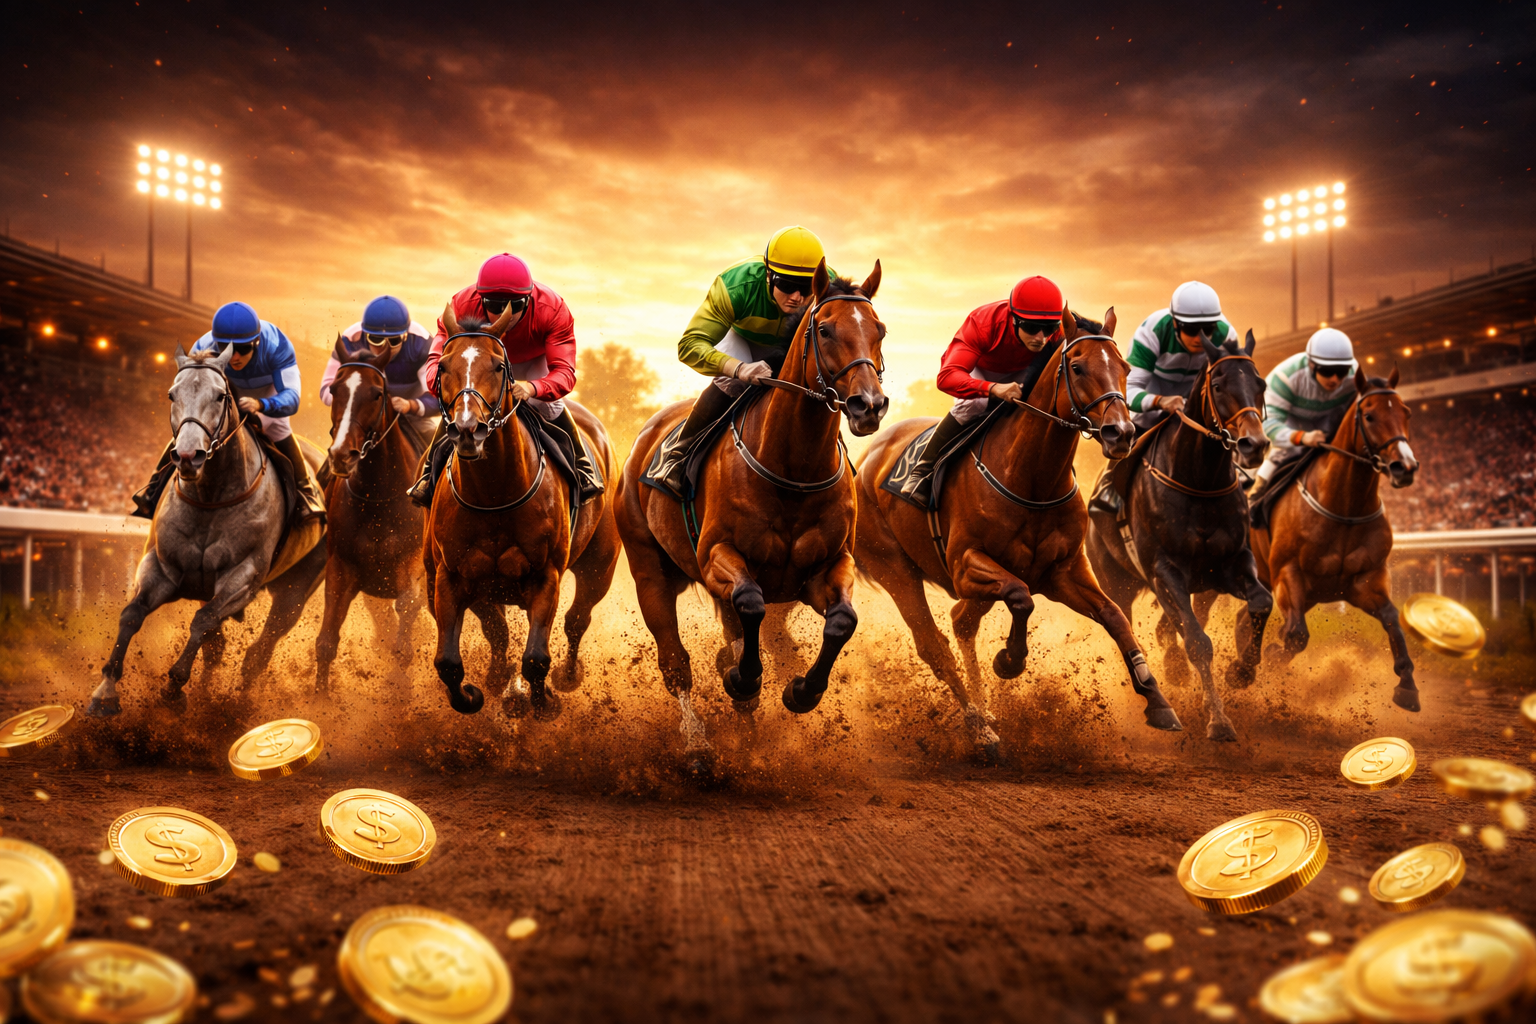
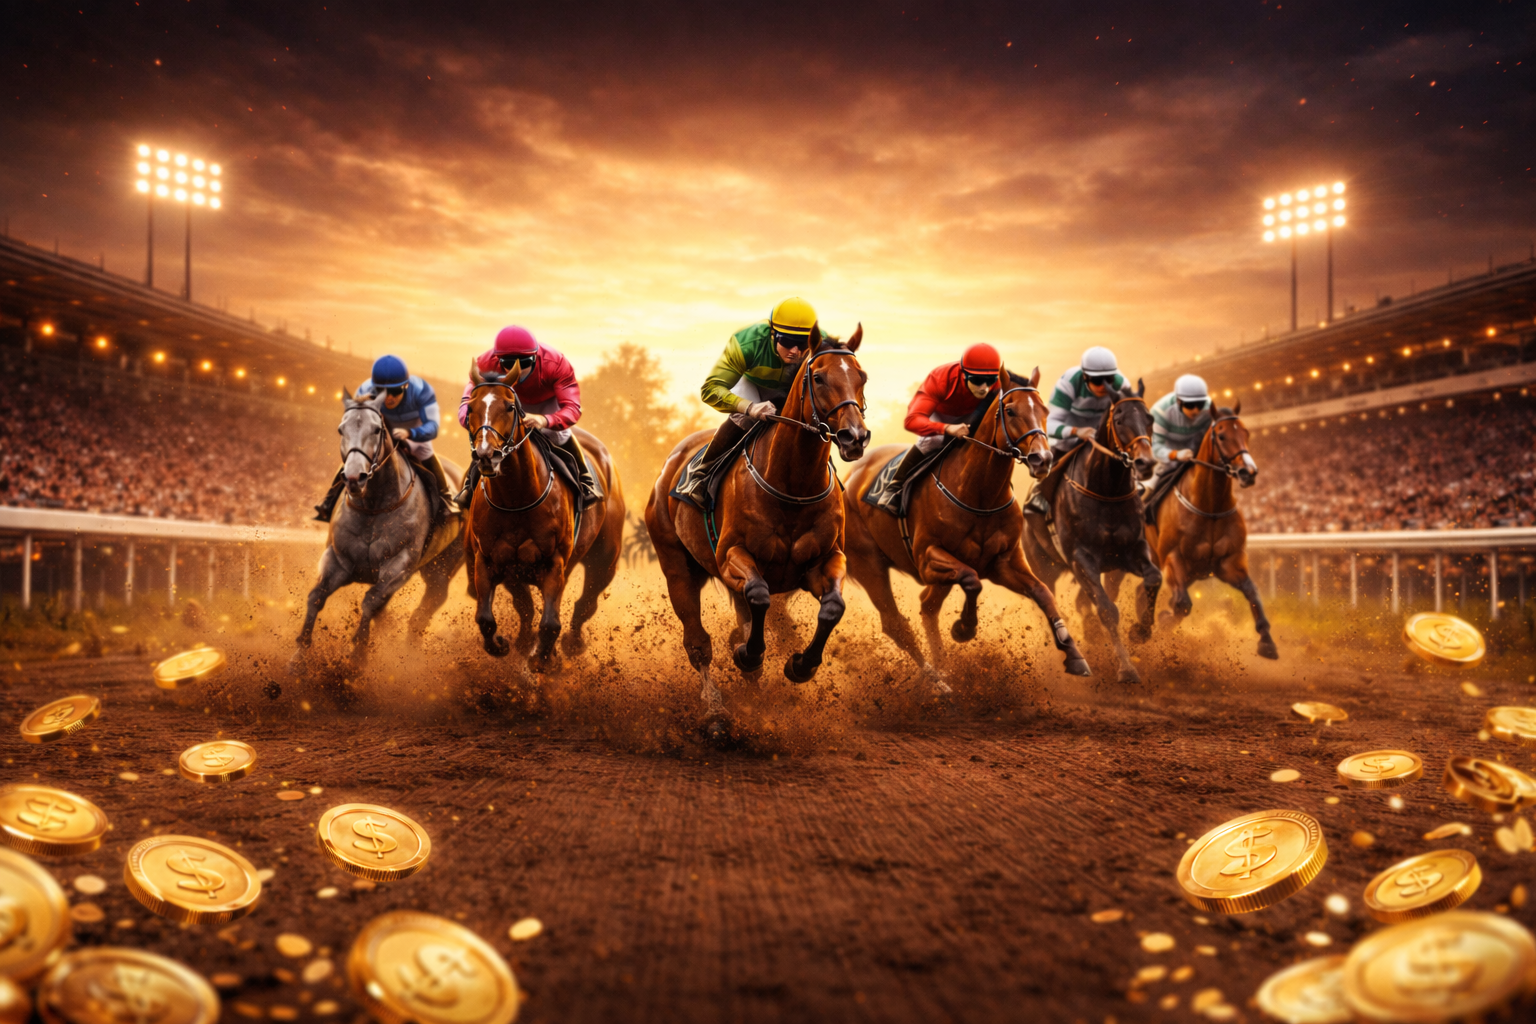
actualizacion

diff --git a/index.html b/index.html
@@ -63,8 +63,8 @@ body { margin: 0; background: var(--dark); color: #fff; font-family: 'Montserrat
 .btn-auth:hover { background: rgba(212, 175, 55, 0.1); box-shadow: 0 0 15px rgba(212,175,55,0.3); }
 
 /* ===== HERO ===== */
-/* CORRECCIÓN: background-position a center 10% para priorizar la visualización de los jinetes y caballos */
-.hero { height: 260px; background: linear-gradient(rgba(0,0,0,.5), rgba(0,0,0,.8)), url("head.webp"); background-size: cover; background-position: center 10%; display: flex; justify-content: center; align-items: center; border-bottom: 2px solid var(--oro); }
+/* CORRECCIÓN: background-position en center (o center 50%) para equilibrar cielo y caballos */
+.hero { height: 260px; background: linear-gradient(rgba(0,0,0,.5), rgba(0,0,0,.8)), url("assets/head.webp"); background-size: cover; background-position: center; display: flex; justify-content: center; align-items: center; border-bottom: 2px solid var(--oro); }
 .hero-content { text-align: center; padding: 0 15px; }
 .hero-live { display: inline-block; background: var(--rojo); padding: 5px 18px; border-radius: 30px; font-size: .75rem; letter-spacing: 3px; font-weight: 800; margin-bottom: 12px; animation: vivo 1.6s infinite; }
 @keyframes vivo { 0% { box-shadow: 0 0 6px rgba(192,57,43,.4); } 50% { box-shadow: 0 0 16px rgba(192,57,43,.9); } 100% { box-shadow: 0 0 6px rgba(192,57,43,.4); } }
@@ -307,8 +307,8 @@ footer span { color: var(--oro); }
     .user-panel { width: 100%; justify-content: space-between; } 
     .header-box { padding: 0 10px; font-size: 0.75rem; flex: 1; justify-content: center;}
     
-    /* CORRECCIÓN: Ajuste de la altura de la cabecera y el encuadre para móvil */
-    .hero { height: 180px; background-position: center 10%; } 
+    /* CORRECCIÓN: Ajuste del encuadre para móvil a center */
+    .hero { height: 180px; background-position: center; } 
     
     .hero h1 { font-size: 1.6rem; letter-spacing: 4px; }
     .tab-btn { padding: 12px 10px; font-size: 0.7rem; min-width: 140px; }
@@ -339,7 +339,7 @@ footer span { color: var(--oro); }
 <div class="header-wrapper">
     <div class="header">
         <div class="logo-container">
[2 lines of base64/hex data omitted]
             <span style="font-family: 'Cinzel', serif; letter-spacing: 2px; font-size: 1.4rem; font-weight: 900; color: var(--oro); text-transform: uppercase; margin-left: 5px;">HORSEBIT</span>
         </div>
         
@@ -456,14 +456,14 @@ footer span { color: var(--oro); }
 </div>
 
 <script>
-// --- 1. BASE DE DATOS OFICIAL (USANDO .webp SEGÚN TU CARPETA) ---
+// --- 1. BASE DE DATOS OFICIAL ---
 const dbOriginal = [
-    { id: 0, nombre: "TRUENO", cuota: 2.0, vel: 85, res: 60, exp: "5 años", img: "trueno.webp", ganadas: 14, derrotas: 6 },
-    { id: 1, nombre: "RELÁMPAGO", cuota: 3.5, vel: 92, res: 40, exp: "3 años", img: "relampago.webp", ganadas: 8, derrotas: 12 },
-    { id: 2, nombre: "PEGASO", cuota: 2.5, vel: 78, res: 85, exp: "6 años", img: "pegaso.webp", ganadas: 22, derrotas: 8 },
-    { id: 3, nombre: "TORNADO", cuota: 4.0, vel: 88, res: 50, exp: "4 años", img: "tornado.webp", ganadas: 5, derrotas: 18 },
-    { id: 4, nombre: "CENTELLA", cuota: 5.0, vel: 95, res: 30, exp: "2 años", img: "centella.webp", ganadas: 3, derrotas: 20 },
-    { id: 5, nombre: "COMETA", cuota: 3.0, vel: 80, res: 75, exp: "4 años", img: "cometa.webp", ganadas: 11, derrotas: 9 }
+    { id: 0, nombre: "TRUENO", cuota: 2.0, vel: 85, res: 60, exp: "5 años", img: "assets/trueno.webp", ganadas: 14, derrotas: 6 },
+    { id: 1, nombre: "RELÁMPAGO", cuota: 3.5, vel: 92, res: 40, exp: "3 años", img: "assets/relampago.webp", ganadas: 8, derrotas: 12 },
+    { id: 2, nombre: "PEGASO", cuota: 2.5, vel: 78, res: 85, exp: "6 años", img: "assets/pegaso.webp", ganadas: 22, derrotas: 8 },
+    { id: 3, nombre: "TORNADO", cuota: 4.0, vel: 88, res: 50, exp: "4 años", img: "assets/tornado.webp", ganadas: 5, derrotas: 18 },
+    { id: 4, nombre: "CENTELLA", cuota: 5.0, vel: 95, res: 30, exp: "2 años", img: "assets/centella.webp", ganadas: 3, derrotas: 20 },
+    { id: 5, nombre: "COMETA", cuota: 3.0, vel: 80, res: 75, exp: "4 años", img: "assets/cometa.webp", ganadas: 11, derrotas: 9 }
 ];
 
 // Lógica de carga: Forzar uso de .webp si hay cache antiguo.
@@ -472,7 +472,7 @@ let dbCaballos = dbOriginal;
 
 if (dbGuardada) {
     dbCaballos = dbGuardada.map((caballo, index) => {
-        caballo.img = dbOriginal[index].img; // Obliga a cargar .webp actuales
+        caballo.img = dbOriginal[index].img; // Obliga a cargar rutas nuevas
         return caballo;
     });
 }
